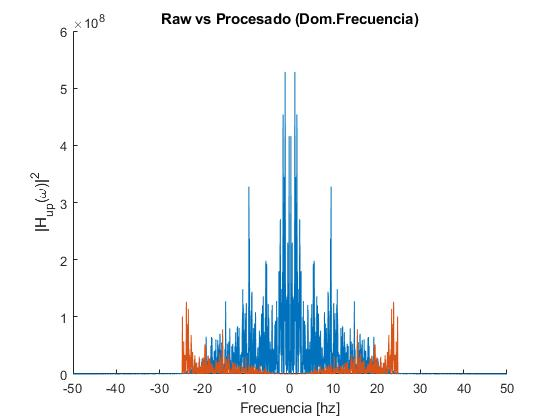
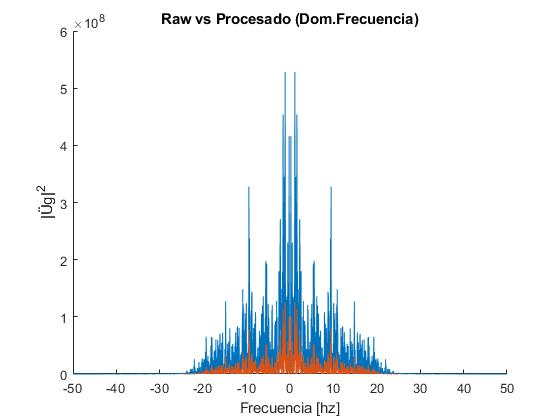
Update

Changed region(s): [[0.3036, 0.7119, 0.7286, 0.8976], [0.0607, 0.4024, 0.1214, 0.5571]]

diff --git a/Tarea 1/html/P3MATLAB.html b/Tarea 1/html/P3MATLAB.html
@@ -1,0 +1,128 @@
+
+<!DOCTYPE html
+  PUBLIC "-//W3C//DTD HTML 4.01 Transitional//EN">
+<html><head>
+      <meta http-equiv="Content-Type" content="text/html; charset=utf-8">
+   <!--
+This HTML was auto-generated from MATLAB code.
+To make changes, update the MATLAB code and republish this document.
+      --><title>Inicializar</title><meta name="generator" content="MATLAB 9.11"><link rel="schema.DC" href="http://purl.org/dc/elements/1.1/"><meta name="DC.date" content="2022-04-06"><meta name="DC.source" content="P3MATLAB.m"><style type="text/css">
+html,body,div,span,applet,object,iframe,h1,h2,h3,h4,h5,h6,p,blockquote,pre,a,abbr,acronym,address,big,cite,code,del,dfn,em,font,img,ins,kbd,q,s,samp,small,strike,strong,tt,var,b,u,i,center,dl,dt,dd,ol,ul,li,fieldset,form,label,legend,table,caption,tbody,tfoot,thead,tr,th,td{margin:0;padding:0;border:0;outline:0;font-size:100%;vertical-align:baseline;background:transparent}body{line-height:1}ol,ul{list-style:none}blockquote,q{quotes:none}blockquote:before,blockquote:after,q:before,q:after{content:'';content:none}:focus{outine:0}ins{text-decoration:none}del{text-decoration:line-through}table{border-collapse:collapse;border-spacing:0}
+
+html { min-height:100%; margin-bottom:1px; }
+html body { height:100%; margin:0px; font-family:Arial, Helvetica, sans-serif; font-size:10px; color:#000; line-height:140%; background:#fff none; overflow-y:scroll; }
+html body td { vertical-align:top; text-align:left; }
+
+h1 { padding:0px; margin:0px 0px 25px; font-family:Arial, Helvetica, sans-serif; font-size:1.5em; color:#d55000; line-height:100%; font-weight:normal; }
+h2 { padding:0px; margin:0px 0px 8px; font-family:Arial, Helvetica, sans-serif; font-size:1.2em; color:#000; font-weight:bold; line-height:140%; border-bottom:1px solid #d6d4d4; display:block; }
+h3 { padding:0px; margin:0px 0px 5px; font-family:Arial, Helvetica, sans-serif; font-size:1.1em; color:#000; font-weight:bold; line-height:140%; }
+
+a { color:#005fce; text-decoration:none; }
+a:hover { color:#005fce; text-decoration:underline; }
+a:visited { color:#004aa0; text-decoration:none; }
+
+p { padding:0px; margin:0px 0px 20px; }
+img { padding:0px; margin:0px 0px 20px; border:none; }
+p img, pre img, tt img, li img, h1 img, h2 img { margin-bottom:0px; }
+
+ul { padding:0px; margin:0px 0px 20px 23px; list-style:square; }
+ul li { padding:0px; margin:0px 0px 7px 0px; }
+ul li ul { padding:5px 0px 0px; margin:0px 0px 7px 23px; }
+ul li ol li { list-style:decimal; }
+ol { padding:0px; margin:0px 0px 20px 0px; list-style:decimal; }
+ol li { padding:0px; margin:0px 0px 7px 23px; list-style-type:decimal; }
+ol li ol { padding:5px 0px 0px; margin:0px 0px 7px 0px; }
+ol li ol li { list-style-type:lower-alpha; }
+ol li ul { padding-top:7px; }
+ol li ul li { list-style:square; }
+
+.content { font-size:1.2em; line-height:140%; padding: 20px; }
+
+pre, code { font-size:12px; }
+tt { font-size: 1.2em; }
+pre { margin:0px 0px 20px; }
+pre.codeinput { padding:10px; border:1px solid #d3d3d3; background:#f7f7f7; }
+pre.codeoutput { padding:10px 11px; margin:0px 0px 20px; color:#4c4c4c; }
+pre.error { color:red; }
+
+@media print { pre.codeinput, pre.codeoutput { word-wrap:break-word; width:100%; } }
+
+span.keyword { color:#0000FF }
+span.comment { color:#228B22 }
+span.string { color:#A020F0 }
+span.untermstring { color:#B20000 }
+span.syscmd { color:#B28C00 }
+span.typesection { color:#A0522D }
+
+.footer { width:auto; padding:10px 0px; margin:25px 0px 0px; border-top:1px dotted #878787; font-size:0.8em; line-height:140%; font-style:italic; color:#878787; text-align:left; float:none; }
+.footer p { margin:0px; }
+.footer a { color:#878787; }
+.footer a:hover { color:#878787; text-decoration:underline; }
+.footer a:visited { color:#878787; }
+
+table th { padding:7px 5px; text-align:left; vertical-align:middle; border: 1px solid #d6d4d4; font-weight:bold; }
+table td { padding:7px 5px; text-align:left; vertical-align:top; border:1px solid #d6d4d4; }
+
+
+
+
+
+  </style></head><body><div class="content"><h1>Inicializar</h1><pre class="codeinput">clear <span class="string">variables</span>
+close <span class="string">all</span>
+clc
+
+uppG = readmatrix(<span class="string">'Concepcion2010-L.txt'</span>);  <span class="comment">% Registro</span>
+dt = 0.005;                                 <span class="comment">% Paso temporal del registro para el muestreo-sampling</span>
+m = length(uppG);                           <span class="comment">% Largo del registro</span>
+UPPG = fft(uppG);                           <span class="comment">% DFT del registro</span>
+Fs = 1/dt;                                  <span class="comment">% Frecuencia de muestreo del registro</span>
+s = -Fs/2:Fs/m:(Fs/2-Fs/m);                 <span class="comment">% Rango de frecuencias</span>
+w = 2*pi*s;                                 <span class="comment">% Rango de frecuencias angulares</span>
+Te = 2*pi./w;                               <span class="comment">% Rango de periodos</span>
+t = 0:dt:(m-1)*dt;                          <span class="comment">% Vector de tiempo</span>
+
+figure
+plot(s,fftshift(abs(UPPG)).^2)              <span class="comment">% Graficar el m&oacute;dulo al cuadrado vs las frecuencias</span>
+xlim([0 30])
+xlabel(<span class="string">'s [hz]'</span>)
+ylabel(<span class="string">'|&Uuml;_g(f)|^2'</span>)
+title(<span class="string">'DFT'</span>)
+
+figure
+plot(Te,fftshift(abs(UPPG)).^2)             <span class="comment">% Graficar el m&oacute;dulo al cuadrado vs el periodo</span>
+xlim([0 50])
+xlabel(<span class="string">'T [sec]'</span>)
+ylabel(<span class="string">'|&Uuml;_g(f)|^2'</span>)
+title(<span class="string">'DFT'</span>)
+</pre><img vspace="5" hspace="5" src="P3MATLAB_01.png" alt=""> <img vspace="5" hspace="5" src="P3MATLAB_02.png" alt=""> <p class="footer"><br><a href="https://www.mathworks.com/products/matlab/">Published with MATLAB&reg; R2021b</a><br></p></div><!--
+##### SOURCE BEGIN #####
+%% Inicializar
+clear variables
+close all
+clc
+
+uppG = readmatrix('Concepcion2010-L.txt');  % Registro
+dt = 0.005;                                 % Paso temporal del registro para el muestreo-sampling
+m = length(uppG);                           % Largo del registro
+UPPG = fft(uppG);                           % DFT del registro
+Fs = 1/dt;                                  % Frecuencia de muestreo del registro
+s = -Fs/2:Fs/m:(Fs/2-Fs/m);                 % Rango de frecuencias
+w = 2*pi*s;                                 % Rango de frecuencias angulares
+Te = 2*pi./w;                               % Rango de periodos
+t = 0:dt:(m-1)*dt;                          % Vector de tiempo
+
+figure
+plot(s,fftshift(abs(UPPG)).^2)              % Graficar el módulo al cuadrado vs las frecuencias
+xlim([0 30])
+xlabel('s [hz]')
+ylabel('|Ü_g(f)|^2')
+title('DFT')
+
+figure
+plot(Te,fftshift(abs(UPPG)).^2)             % Graficar el módulo al cuadrado vs el periodo
+xlim([0 50])
+xlabel('T [sec]')
+ylabel('|Ü_g(f)|^2')
+title('DFT')
+##### SOURCE END #####
+--></body></html>

diff --git a/Tarea 1/P4MATLAB.m b/Tarea 1/P4MATLAB.m
@@ -85,15 +85,15 @@ title('Raw vs s')
 figure
 plot(sapr,fftshift(fourier_procesado))
 xlabel('Frecuencia [s]')
-ylabel('|H_{up}(\omega)|^2')
+ylabel('|Üg|^2')
 title('Procesado vs s')
 
 figure
 hold on
 plot(sr,fftshift(fourier_raw))
-plot(sapr,fourier_procesado)
+plot(sapr,fftshift(fourier_procesado))
 xlabel('Frecuencia [hz]')
-ylabel('|H_{up}(\omega)|^2')
+ylabel('|Üg|^2')
 title('Raw vs Procesado (Dom.Frecuencia)')
 hold off
 
@@ -136,15 +136,20 @@ title('Desplazamiento integrando Velocidad desde Procesada')
 %% 4.3.2 Transformada Inversa de Fourier
 % u(t) = F^-1(-F(upp)/w^2)
 
-% Hay que arreglar lo de abajo, no me funciona
+u_raw = ifft(-fft(Regi_raw)./(wr.').^2);
 
-disp_fourier = ifft(-fftshift(fft(Regi_raw))./(wr.^2).');
+for i = 1:mr
+    if u_raw(i,1) < 10^-5
+        u_raw(i,1) = 10^-5;    
+    end
+end
+
 % disp_fourier_proc = ifft(-fft(Regi_acc_procesado)./wr.^2);
 
 figure
-plot(sr,real(disp_fourier))
-xlabel('t [s]')
-ylabel('u(t)')
+plot(tr,real(u_raw))
+xlabel('t [sec]')
+ylabel('u(t) [cm]')
 title('Desplazamiento obtenido desde transformada de fourier del Registo')
 
 % figure

diff --git a/Tarea 1/P2MATLAB.m b/Tarea 1/P2MATLAB.m
@@ -2,7 +2,6 @@
 clear variables
 close all
 clc
-disp('<a href="https://github.com/aleaicr/Tareas_Sismica">Github - Tareas_Sismica - Alexis Contreas R.</a>')
 disp('Para registro de PICA quitar los comentarios de la')
 disp('LINEA 24')
 %% Importar datos
